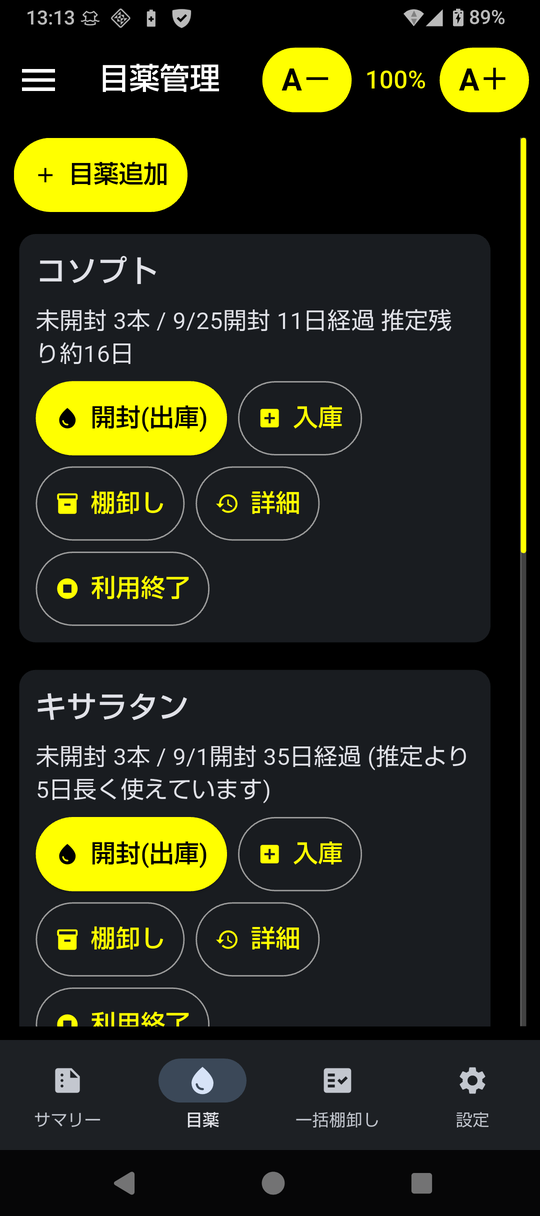
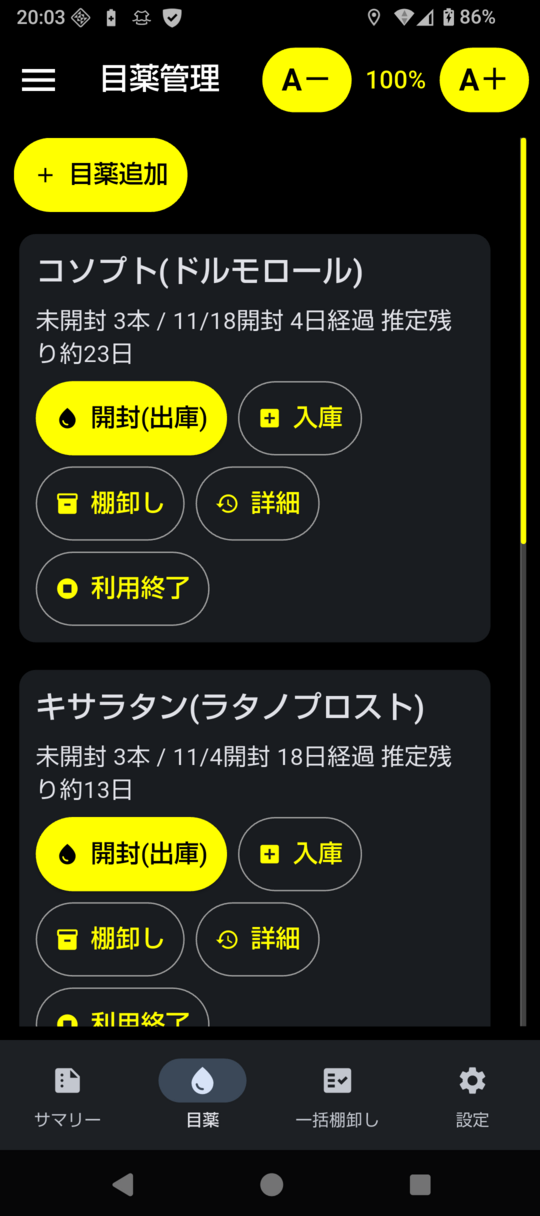
Update docs for 0.4.0: screenshots, android.rst, man page, SPEC.md
JP:
Android 版の併記表示(0.4.0)に合わせて文書を更新した。
- スクリーンショット5枚を実機(本番データ)で撮り直した。
  stock.png は表の並び順の変更に合わせて need.png に改名した
- document/android.rst のサマリーの説明を、目薬在庫が先頭・必要本数がその下の
  新しい表示と新ラベルに直し、画面の例を本番データに変えた
- README.md の画像名を need.png に直した
- man/eyedrop.1 を 0.4.0 で作り直した(troff の警告 0)
- SPEC.md に、サマリー画面の表の見直し(c572834)と目薬名の併記表示(a853285)の
  記録を追加した

diff --git a/SPEC.md b/SPEC.md
@@ -957,6 +957,61 @@ Android版と CLI版で、必要な Python が違う(2026-10-01 確認)。
       期間で考えたいときは「次回来院日を既定に戻す」で来院日 + 既定の期間に戻る
     - 点眼パターン変更と推定のアルゴリズムを変更(android-TODO-2 の点眼パターン変更の項を参照)
 
+- [x] サマリー画面の表の見直し(2026-11-04、user の指示。コミット c572834)
+  - 進め方: 画面は先に Claude Desktop のアーティファクトでモックを作り、user が OK してから
+    Android アプリを実装・ビルドする(以後の画面変更でも同じ。2回目の並び替えだけは user が
+    「アーティファクト確認無しでビルドまで」と指示した)
+  - 「目薬在庫」の表: 「未開封」→「在庫本数」、「開封日」→「開封分(改行)開封日」。
+    「経過日数」(来院日 − 開封日。`req.elapsed`)を開封日の後・残日数の前に追加。
+    列は 代表目薬名 / 在庫本数 / 開封分開封日 / 経過日数 / 残日数 / 通常日数。
+    説明から「開封日」の項目を削除。経過日数の説明は自明なので書かない(user の決定)
+  - 「次回来院までに必要な本数」の表: 「開封分残日数」の列を削除(目薬在庫の表の「残日数」と同じ値のため)。
+    「足りない日数」→「不足日数」、「未開封」→「在庫本数」、「通常期間」→「通常日数」。
+    列は 代表目薬名 / 必要本数 / 不足日数 / 在庫残日数 / 在庫本数 / 通常日数。
+    説明は「不足日数」「通常日数」の2項目だけにした(必要本数・在庫残日数・開封分残日数の項目は削除。
+    その結果、予備1本を足すことや在庫残日数の内訳は画面から読み取れない。user の指示どおり)
+  - 並び: 最初のモックでは「次回来院までに必要な本数」の見出しを来院日・次回来院日ボタンの上に移した。
+    その後、普段いちばん見るのは「目薬在庫」なので、サマリーの先頭を「目薬在庫」にし、
+    その下に「次回来院までに必要な本数」(見出し → 来院日・次回来院日ボタン → 表 → 説明)を置いた
+    (user の決定。この表がアプリの肝なので、受診時はスクロールして見せる)
+  - Markdown・テキスト・チャットAI用のコピーと CLI の `report` も同じ列・ラベルに合わせた
+    (user の指示「併せて変更」。`BASIS_HEADS`・`NEED_NOTES` など)。Markdown の目薬在庫の表は
+    ods 形式の見出し(推定残日数・日数)のまま。テキスト版の目薬在庫には経過日数を追加
+  - 注意点:
+    - 「通常日数」が2つの値を指す。必要本数の表では直近3本の平均(`req.normal`)、目薬在庫の表では
+      直近1本の使い切り日数(`line.last_days`)。ラベルは user の指定どおり揃えた(値は違うことがある)
+    - チャットAI用の JSON は「通常日数」キーが既に `last_days` で使われているため、必要本数側のキーは
+      「通常期間」のまま。「足りない日数」→「不足日数」、「未開封」→「在庫本数」にし、「開封分残日数」は削除
+    - 「推定の根拠」(`estimate_text`)・目薬タブの「未開封 N本」・詳細画面の「通常期間」・
+      `estimate.py` のコメントなどは旧用語のまま(範囲外)
+  - ビルド: `mobile/build_release_apk.sh`(user の端末)で 0.3.0(versionCode 300)を署名付きでビルドし、
+    SH-54D に上書きインストール(本番データそのまま、自動回転 OFF のまま)。
+    版は 0.3.0 のまま、タグ・Releases は出していない
+  - 未対応: `document/`(cli・sample・android・estimate・index・eyedrop の rst)に旧ラベルが残っている。
+    `docs/v0.3.0/` は凍結のため触っていない。次の版で直す
+  - 確認: `unittest discover -s tests`(94件)・`flake8` とも成功。critic のレビューで、旧ラベルの取りこぼしや
+    docstring の不整合を直し、何も検証していなかったテスト1行を削除した
+
+- [x] 目薬名の併記表示(2026-11-22、user の指示。コミット a853285。版は 0.4.0・versionCode 400)
+  - 内容: 表示モードの名前を主に、もう片方を括弧で併記する。代表目薬名で表示なら「コソプト(ドルモロール)」、
+    目薬名で表示なら「ドルモロール(コソプト)」。名前が同じ薬も併記する(user の決定。例: グラナテック(グラナテック))
+  - サマリーの表(目薬在庫・必要本数)は名前を上下2行(2行目は小さく淡色)にして列幅を広げない。見出しも2段
+    (「代表目薬名(目薬名)」「目薬名(代表目薬名)」)。目薬タブのカード・各ダイアログ・完了の通知は1行の併記。
+    注意の文も1行の併記。括弧の部分は主の名前と同じ書き方(太字など)にした(user の決定)
+  - 変えないもの: 詳細画面の見出し(片方の名前。下に両方の名前がある)、代表目薬名ごとの利用終了のダイアログ
+    (代表目薬名ごとの操作のため)、PC 版と Markdown・テキスト・チャットAI 用の出力
+  - 実装: `report.name_pair`、`main.py` の `join_pair`・`drug_label`(併記)・`drug_name`(片方)・`table_cell`
+    (名前セルの2行)。名前セルの `ft.Column` に `tight=True` が要る(無いと行の高さいっぱいに伸びて上に寄る。critic の指摘)
+  - 進め方: 画面案を Claude Desktop のアーティファクトで示し、user が OK してから実装した
+  - 確認: `unittest discover -s tests`(99件)・pycodestyle・flake8 成功。critic のレビュー9件のうち、
+    tight=True・テストの強化・併記のヘルパー化を反映。実機(SH-54D、本番データ)で両モード・文字 250% の表示を確認
+    (確認のため切り替えた名前の表示・文字の大きさ・自動回転は元に戻した)
+  - 文書: `document/android.rst` を新しい表示(目薬在庫が先頭、必要本数はその下、旧ラベルを新ラベルに)に直し、
+    画面の例を本番データに変えた(user の決定。個人名は含まれない)。`man/eyedrop.1` を 0.4.0 で作り直し(警告 0)。
+    スクリーンショット5枚を撮り直した(実機の画面を 540x1216 に縮小。`stock.png` は `need.png` に改名)
+  - 未対応: `docs/v0.4.0/` のビルド・公開・タグ・Releases(リリースは未実施)。`document/` の cli・sample・estimate・
+    index・eyedrop の rst に旧ラベルが残っている可能性(android 以外は未確認)。`docs/v0.3.0/` は凍結のまま
+
 ## 目薬管理改良
 
 user の要望(2026-10-05):

diff --git a/document/android.rst b/document/android.rst
@@ -60,7 +60,7 @@ GitHub の `Releases <https://github.com/kuma35/eyedrop/releases>`_ から ``eye
 ============
 
 画面は下部のタブ(サマリー・目薬・一括棚卸し・設定)で切り替えます。
-画面の例は :doc:`サンプルデータ <sample>` で、次回来院日を4ヶ月後にしたものです。
+画面の例は、実際に使っているデータで、次回来院日は既定の2ヶ月後です。
 画面上部の「A－」「A＋」で文字の大きさを変えられます。
 左上のメニュー(≡)では、名前の表示(代表目薬名・目薬名)の切り替え、一括棚卸しタブへの移動、
 サマリーのコピーができます。
@@ -81,20 +81,22 @@ GitHub の `Releases <https://github.com/kuma35/eyedrop/releases>`_ から ``eye
 
 .. image:: ../images/summary.png
    :width: 270
-   :alt: サマリー
+   :alt: サマリー(目薬在庫)
 
-来院日(既定は今日)と次回来院日(既定は来院日の2ヶ月後)を表示し、
-次回来院までに必要な本数を目薬ごとに計算します。
-来院日・次回来院日は押すとカレンダーで変えられます。
-表は横にスクロールでき、必要本数に続いて根拠(足りない日数・在庫残日数・未開封・通常期間・開封分残日数)を表示します。
-計算のしかたは :doc:`estimate` を参照してください。
+先頭の「目薬在庫」は、在庫本数、開封中の1本の開封日・経過日数・推定残日数、
+通常何日で使い切っているか(通常日数)を目薬ごとに表示します。
+名前は上下2行で、1行目が選んだ表示、2行目(括弧)がもう一方です。
 
-.. image:: ../images/stock.png
+.. image:: ../images/need.png
    :width: 270
-   :alt: 目薬在庫・注意
+   :alt: 次回来院までに必要な本数
 
-下にスクロールすると「目薬在庫」(未開封の本数、開封中の1本の開封日・推定残日数、通常何日で使い切っているか)と、
-廃棄期限を過ぎているなどの「注意」があります。
+下にスクロールすると「次回来院までに必要な本数」があります。
+来院日(既定は今日)と次回来院日(既定は来院日の2ヶ月後)は、押すとカレンダーで変えられます。
+次回来院までに必要な本数を目薬ごとに計算し、必要本数に続いて根拠(不足日数・在庫残日数・在庫本数・通常日数)を表示します。
+表は横にスクロールできます。
+計算のしかたは :doc:`estimate` を参照してください。
+その下に、廃棄期限を過ぎているなどの「注意」があります。
 左上のメニューから、サマリーを Markdown・テキスト・チャットAI 用でコピーできます。
 
 目薬

diff --git a/README.md b/README.md
@@ -4,9 +4,9 @@ An Android app and command-line tool that tracks eye drop stock and estimates
 how many bottles to ask for at your next eye doctor visit.
 The user interface and documentation are in Japanese.
 
-| Summary | Stock | Eye drops | Detail | Bulk stocktaking |
+| Summary | Needed | Eye drops | Detail | Bulk stocktaking |
 |---|---|---|---|---|
-| <img src="images/summary.png" width="160" alt="Summary"> | <img src="images/stock.png" width="160" alt="Stock"> | <img src="images/drugs.png" width="160" alt="Eye drops"> | <img src="images/detail.png" width="160" alt="Detail"> | <img src="images/bulk.png" width="160" alt="Bulk stocktaking"> |
+| <img src="images/summary.png" width="160" alt="Summary"> | <img src="images/need.png" width="160" alt="Needed"> | <img src="images/drugs.png" width="160" alt="Eye drops"> | <img src="images/detail.png" width="160" alt="Detail"> | <img src="images/bulk.png" width="160" alt="Bulk stocktaking"> |
 
 ## Features
 
